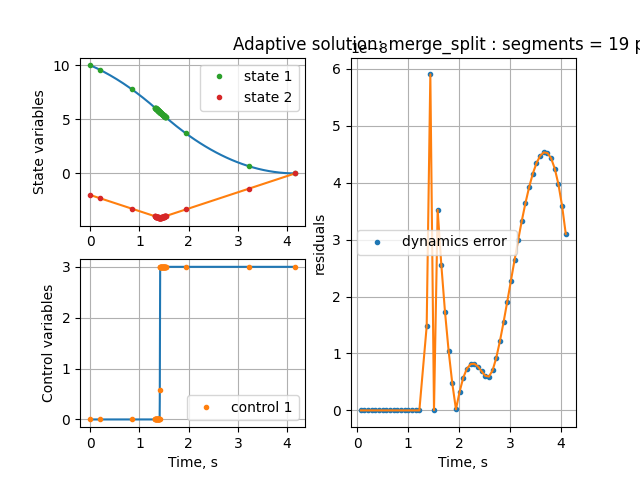
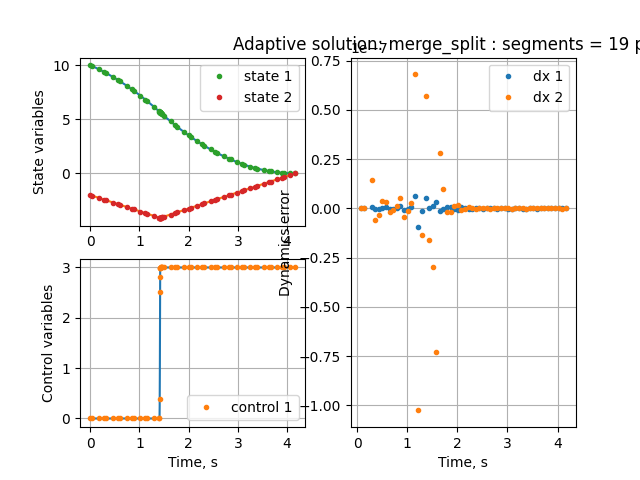
Updated adaptive mesh refinement schemes

diff --git a/examples/Multi-phase/tpschwartz.py b/examples/Multi-phase/tpschwartz.py
@@ -68,56 +68,74 @@ ocp.lbtf[1], ocp.ubtf[1] = 2.9, 2.9
 
 ocp.validate()
 if __name__ == "__main__":
-    mp.post_process._INTERPOLATION_NODES_PER_SEG = 200
-    mp.mpopt._GRID_TYPE = "spectral"
-
-    seg, p = 4, 20
-    mpo, lgr = mp.solve(ocp, seg, p, "LGR", True)
-    mp.plt.title(
-        f"non-adaptive solution using LGR scheme & segments = {mpo.n_segments} poly={mpo.poly_orders[0]}"
-    )
-    t, r = mpo.get_dynamics_residuals(lgr.solution, plot=False)
-    r_lgr, t_lgr = mp.post_process.sort_residual_data(t, r, phases=range(ocp.n_phases))
-
-    mpo, lgl = mp.solve(ocp, seg, p, "LGL", False)
-    mp.plt.title(
-        f"non-adaptive solution using LGL scheme & segments = {mpo.n_segments} poly={mpo.poly_orders[0]}"
-    )
-    t, r = mpo.get_dynamics_residuals(lgl.solution, plot=False)
-    r_lgl, t_lgl = mp.post_process.sort_residual_data(t, r, phases=range(ocp.n_phases))
-
-    mpo, cgl = mp.solve(ocp, seg, p, "CGL", False)
-    mp.plt.title(
-        f"non-adaptive solution using CGL scheme & segments = {mpo.n_segments} poly={mpo.poly_orders[0]}"
-    )
-    t, r = mpo.get_dynamics_residuals(cgl.solution, plot=False)
-    r_cgl, t_cgl = mp.post_process.sort_residual_data(t, r, phases=range(ocp.n_phases))
+    # mp.post_process._INTERPOLATION_NODES_PER_SEG = 200
+    # mp.mpopt._GRID_TYPE = "spectral"
+    #
+    # seg, p = 4, 20
+    # mpo, lgr = mp.solve(ocp, seg, p, "LGR", True)
+    # mp.plt.title(
+    #     f"non-adaptive solution using LGR scheme & segments = {mpo.n_segments} poly={mpo.poly_orders[0]}"
+    # )
+    # t, r = mpo.get_dynamics_residuals(lgr.solution, plot=False)
+    # r_lgr, t_lgr = mp.post_process.sort_residual_data(t, r, phases=range(ocp.n_phases))
+    #
+    # mpo, lgl = mp.solve(ocp, seg, p, "LGL", False)
+    # mp.plt.title(
+    #     f"non-adaptive solution using LGL scheme & segments = {mpo.n_segments} poly={mpo.poly_orders[0]}"
+    # )
+    # t, r = mpo.get_dynamics_residuals(lgl.solution, plot=False)
+    # r_lgl, t_lgl = mp.post_process.sort_residual_data(t, r, phases=range(ocp.n_phases))
+    #
+    # mpo, cgl = mp.solve(ocp, seg, p, "CGL", False)
+    # mp.plt.title(
+    #     f"non-adaptive solution using CGL scheme & segments = {mpo.n_segments} poly={mpo.poly_orders[0]}"
+    # )
+    # t, r = mpo.get_dynamics_residuals(cgl.solution, plot=False)
+    # r_cgl, t_cgl = mp.post_process.sort_residual_data(t, r, phases=range(ocp.n_phases))
 
     # Adaptive solution
-    # mp.mpopt._INTERPOLATION_NODES_PER_SEG = 100
-    mp.mpopt_h_adaptive._TOL_RESIDUAL = 1e-4
-    mph = mp.mpopt_h_adaptive(ocp, seg, p)
-    solh = mph.solve(
-        max_iter=10,
-        mpopt_options={"method": "residual", "sub_method": "merge_split"},
-    )
-    posth = mph.process_results(solh, plot=False)
-    fig, axs = posth.plot_phases(fig=None, axs=None)
+    resids = dict()
+    fig = mp.plt.figure()
+    mp.mpopt._GRID_TYPE = "fixed"
+    tags = ["r-", "g.-", "ko-", "y*-", "c+-"] * 15
+    for deg in range(2, 10):
+        mp.mpopt_h_adaptive._TOL_RESIDUAL = 1e-4
+        mp.mpopt_h_adaptive._TOL_SEG_WIDTH_CHANGE = 0.01
+        mpo = mp.mpopt_h_adaptive(ocp, deg, 3, "LGR")
+        sol = mpo.solve(
+            max_iter=20,
+            mpopt_options={"method": "residuals", "sub_method": "merge_split"},
+        )
+        resids[deg] = mpo.iter_info
+        mp.plt.plot(
+            list(mpo.iter_info.keys()),
+            list(mpo.iter_info.values()),
+            tags[deg],
+            label=deg,
+        )
+
+    mp.plt.legend()
+    post = mpo.process_results(sol)
     mp.plt.title(
-        f"Adaptive solution segments = {mph.n_segments} poly={mph.poly_orders[0]}"
+        f"Adaptive solution: merge_split : segments = {mpo.n_segments} poly={mpo.poly_orders[0]}"
     )
-    t, r = mph.get_dynamics_residuals(solh, plot=False)
-    r_h, t_h = mp.post_process.sort_residual_data(t, r, phases=range(ocp.n_phases))
-
-    print(lgr.solution["f"], lgl.solution["f"], cgl.solution["f"])
-    import numpy as np
-
-    print(t_h.size, np.sum(mpo.poly_orders))
-    mp.plt.figure()
-    mp.plt.plot(
-        # t_lgr, r_lgr, "g-", t_lgl, r_lgl, "b*-", t_cgl, r_cgl, "k--",
-        t_h,
-        r_h,
-        "r-+",
-    )
+    # posth = mph.process_results(solh, plot=False)
+    # fig, axs = posth.plot_phases(fig=None, axs=None)
+    # mp.plt.title(
+    #     f"Adaptive solution segments = {mph.n_segments} poly={mph.poly_orders[0]}"
+    # )
+    # t, r = mph.get_dynamics_residuals(solh, plot=False)
+    # r_h, t_h = mp.post_process.sort_residual_data(t, r, phases=range(ocp.n_phases))
+    #
+    # print(lgr.solution["f"], lgl.solution["f"], cgl.solution["f"])
+    # import numpy as np
+    #
+    # print(t_h.size, np.sum(mpo.poly_orders))
+    # mp.plt.figure()
+    # mp.plt.plot(
+    #     # t_lgr, r_lgr, "g-", t_lgl, r_lgl, "b*-", t_cgl, r_cgl, "k--",
+    #     t_h,
+    #     r_h,
+    #     "r-+",
+    # )
     mp.plt.show()

diff --git a/mpopt/mpopt.py b/mpopt/mpopt.py
@@ -1919,41 +1919,67 @@ class post_process:
         if residuals:
             if self.residuals is not None:
                 if ("t_x" in self.residuals) and ("t_dx" in self.residuals):
+                    y_data = [
+                        r_seg
+                        for r_p in self.residuals["t_x"][1]
+                        for r_seg in r_p
+                        if r_seg is not None
+                    ]
+
+                    x_data = np.hstack(np.concatenate(self.residuals["t_x"][0]))
+                    y_data = np.concatenate(y_data)
+
                     ax2 = plt.subplot(2, 2, 2)
-                    fig, axs = self.plot_residuals(
-                        self.residuals["t_x"][0],
-                        self.residuals["t_x"][1],
-                        name="state error",
-                        fig=fig,
-                        axs=ax2,
-                    )
+                    dims = y_data.shape[1]
+                    self.plot_curve(ax2, y_data, x_data, "x", "States error", tics=tics)
+
                     ax3 = plt.subplot(2, 2, 4)
-                    fig, axs = self.plot_residuals(
-                        self.residuals["t_dx"][0],
-                        self.residuals["t_dx"][1],
-                        name="dynamics error",
-                        fig=fig,
-                        axs=ax3,
+                    y_data = [
+                        r_seg
+                        for r_p in self.residuals["t_dx"][1]
+                        for r_seg in r_p
+                        if r_seg is not None
+                    ]
+
+                    x_data = np.hstack(np.concatenate(self.residuals["t_dx"][0]))
+                    y_data = np.concatenate(y_data)
+
+                    self.plot_curve(
+                        ax3, y_data, x_data, "dx", "Dynamics error", tics=tics
                     )
+
                     axs = [ax0, ax1, ax2, ax3]
                 else:
                     ax2 = plt.subplot(1, 2, 2)
                     if "t_x" in self.residuals:
-                        fig, axs = self.plot_residuals(
-                            self.residuals["t_x"][0],
-                            self.residuals["t_x"][1],
-                            name="state error",
-                            fig=fig,
-                            axs=ax2,
+                        y_data = [
+                            r_seg
+                            for r_p in self.residuals["t_x"][1]
+                            for r_seg in r_p
+                            if r_seg is not None
+                        ]
+
+                        x_data = np.hstack(np.concatenate(self.residuals["t_x"][0]))
+                        y_data = np.concatenate(y_data)
+
+                        self.plot_curve(
+                            ax2, y_data, x_data, "x", "States error", tics=tics
                         )
                     else:
-                        fig, axs = self.plot_residuals(
-                            self.residuals["t_dx"][0],
-                            self.residuals["t_dx"][1],
-                            name="dynamics error",
-                            fig=fig,
-                            axs=ax2,
+                        y_data = [
+                            np.concatenate(
+                                [r_seg for r_seg in r_p if r_seg is not None]
+                            )
+                            for r_p in self.residuals["t_dx"][1]
+                        ]
+
+                        x_data = np.hstack(np.concatenate(self.residuals["t_dx"][0]))
+                        y_data = np.concatenate(y_data)
+
+                        self.plot_curve(
+                            ax2, y_data, x_data, "dx", "Dynamics error", tics=tics
                         )
+                    ax2.set(xlabel="Time, s")
                     axs = [ax0, ax1, ax2]
 
         return fig, axs
@@ -2353,6 +2379,7 @@ class mpopt_h_adaptive(mpopt):
         new_nlp_sw_params, max_error = self.get_segment_width_parameters(
             initial_solution, options=mpopt_options
         )
+        solved = False
         if max_error is not None:
             if max_error < min(self.tol_residual):
                 self.iter_info[self.iter_count] = max_error
@@ -2361,7 +2388,9 @@ class mpopt_h_adaptive(mpopt):
                     max_error,
                 )
                 solution = initial_solution
-        else:
+                solved = True
+
+        if not solved:
             for iter in range(max_iter):
                 self._nlp_sw_params = new_nlp_sw_params
                 # By default, these paramers are of equal segment width

diff --git a/examples/Multi-phase/multistage_launch_vehicle.py b/examples/Multi-phase/multistage_launch_vehicle.py
@@ -296,23 +296,35 @@ ocp.dynamics = get_dynamics(0)
 
 if __name__ == "__main__":
     mpo = mp.mpopt(ocp, 1, 11)
-    sol = mpo.solve()
+    mp.mpopt_h_adaptive._TOL_RESIDUAL = 1e-8
+    mp.mpopt_h_adaptive._TOL_SEG_WIDTH_CHANGE = 0.01
+
+    sol = mpo.solve(
+        max_iter=20,
+        mpopt_options={"method": "residual", "sub_method": "equal_area"},
+    )
 
     # Solve with drag enabled and initial guess
     ocp.dynamics = get_dynamics(1)
     ocp.validate()
-
+    # mpo = mp.mpopt_h_adaptive(ocp, 5, 6)
     mpo._ocp = ocp
     sol = mpo.solve(
-        sol, reinitialize_nlp=True, nlp_solver_options={"ipopt.acceptable_tol": 1e-6}
+        sol,
+        reinitialize_nlp=True,
+        nlp_solver_options={"ipopt.acceptable_tol": 1e-6},
+        max_iter=20,
+        mpopt_options={"method": "control_slope", "sub_method": "equal_area"},
     )
     print("Final mass : ", round(-sol["f"].full()[0, 0] * m0, 4))
 
-    mp.post_process._INTERPOLATION_NODES_PER_SEG = 200
-    # Post processing
-    post = mpo.process_results(sol, plot=False, scaling=False)
+    post = mpo.process_results(sol, plot=True, scaling=False)
 
-    # ************** Plot height and velocity ************************
+    # mp.post_process._INTERPOLATION_NODES_PER_SEG = 200
+    # # Post processing
+    # post = mpo.process_results(sol, plot=False, scaling=False)
+    #
+    # # ************** Plot height and velocity ************************
     x, u, t, _ = post.get_data(interpolate=True)
     print("Final time : ", t[-1])
     figu, axsu = post.plot_u()

diff --git a/examples/singlephase/robot_arm.py b/examples/singlephase/robot_arm.py
@@ -103,12 +103,14 @@ if __name__ == "__main__":
     mp.mpopt_h_adaptive._TOL_SEG_WIDTH_CHANGE = 0.01
 
     tags = ["r-", "g.-", "ko-", "y*-", "c+-"] * 15
-    for deg in range(20, 21):
+    for deg in range(5, 6):
         mpo = mp.mpopt_h_adaptive(ocp, deg, 6)
+        mpo.plot_residual_evolution = True
         sol = mpo.solve(
-            max_iter=20,
-            mpopt_options={"method": "control_slope", "sub_method": "equal_area"},
+            max_iter=5,
+            mpopt_options={"method": "residual", "sub_method": "equal_area"},
         )
+
         resids[deg] = mpo.iter_info
         mp.plt.plot(
             list(mpo.iter_info.keys()),
@@ -116,8 +118,8 @@ if __name__ == "__main__":
             tags[deg],
             label=deg,
         )
-
     mp.plt.legend()
+
     post = mpo.process_results(sol)
     mp.plt.title(
         f"H-Adaptive solution : segments = {mpo.n_segments} poly={mpo.poly_orders[0]}"

diff --git a/examples/singlephase/moon_lander.py b/examples/singlephase/moon_lander.py
@@ -65,15 +65,17 @@ ocp.validate()
 moon_lander = mp.mpopt(ocp, 5, 4)
 
 if __name__ == "__main__":
-    # mp.mpopt._GRID_TYPE = "spectral"
-    # mpo = mp.mpopt(ocp, 1, 20)
-    # sol = mpo.solve()
-    # post = mpo.process_results(sol, plot=True)
-    # mp.plt.title(
-    #     f"non-adaptive solution segments = {mpo.n_segments} poly={mpo.poly_orders[0]}"
-    # )
+    mp.mpopt._GRID_TYPE = "spectral"
+    mpo = mp.mpopt(ocp, 20, 3)
+    sol = mpo.solve()
+    post = mpo.process_results(sol, plot=True)
+    mp.plt.title(
+        f"non-adaptive solution segments = {mpo.n_segments} poly={mpo.poly_orders[0]}"
+    )
 
-    # print(sol["lam_g"][12:])
+    fig = mp.plt.figure()
+    mp.plt.plot(sol["lam_g"], "g.")
+    print(sol["lam_g"])
 
     resids = dict()
     fig = mp.plt.figure()

diff --git a/examples/singlephase/dae_vdp.py b/examples/singlephase/dae_vdp.py
@@ -66,7 +66,7 @@ vdp = mp.mpopt(ocp, seg, p)
 if __name__ == "__main__":
     mp.post_process._INTERPOLATION_NODES_PER_SEG = 200
 
-    seg, p = 5, 6
+    seg, p = 5, 3
     # mpo_lgr, lgr = mp.solve(ocp, seg, p, "LGR", plot=False)
     # mpo_lgl, lgl = mp.solve(ocp, seg, p, "LGL", plot=False)
     # mpo_cgl, cgl = mp.solve(ocp, seg, p, "CGL", plot=False)
@@ -85,7 +85,7 @@ if __name__ == "__main__":
         mpo = mp.mpopt_h_adaptive(ocp, seg, p)
         solh = mpo.solve(
             max_iter=20,
-            mpopt_options={"method": "residual", "sub_method": "merge_split"},
+            mpopt_options={"method": "control_slope", "sub_method": "equal_area"},
         )
 
         resids[seg] = mpo.iter_info
